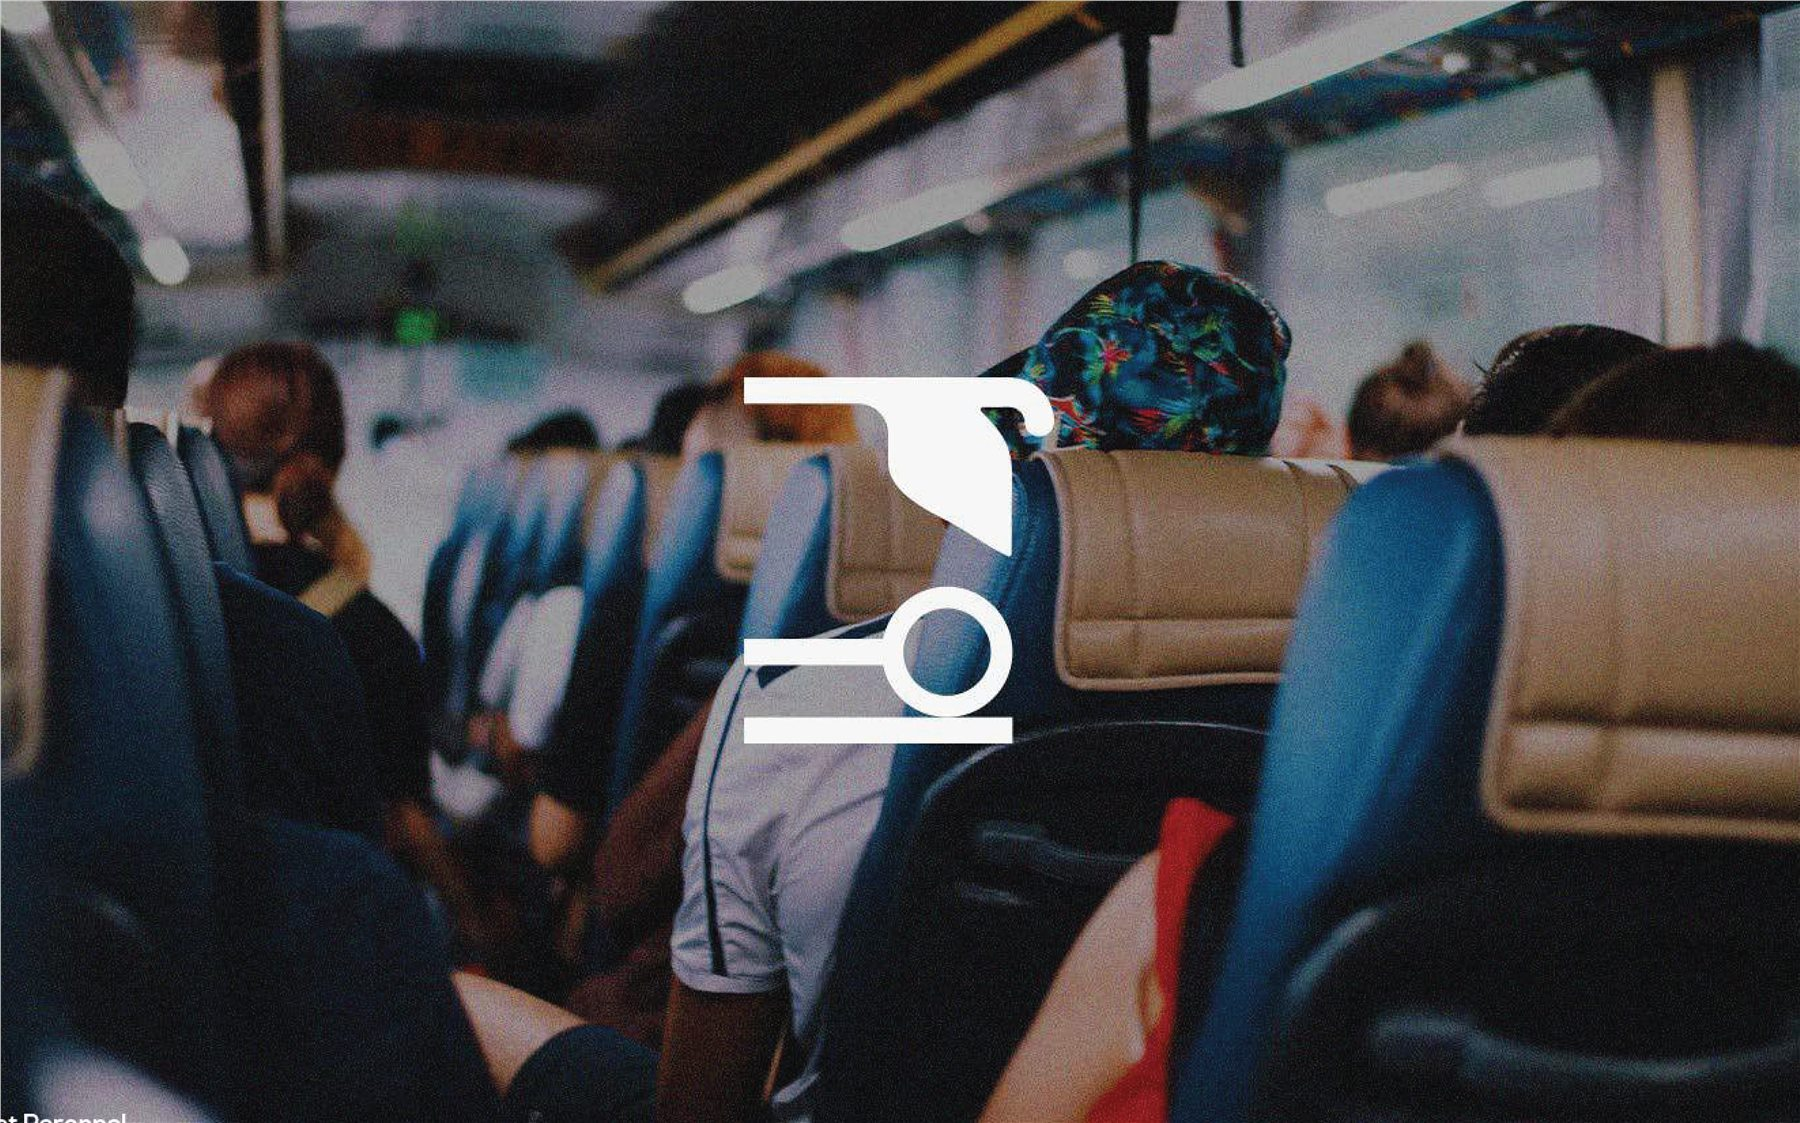
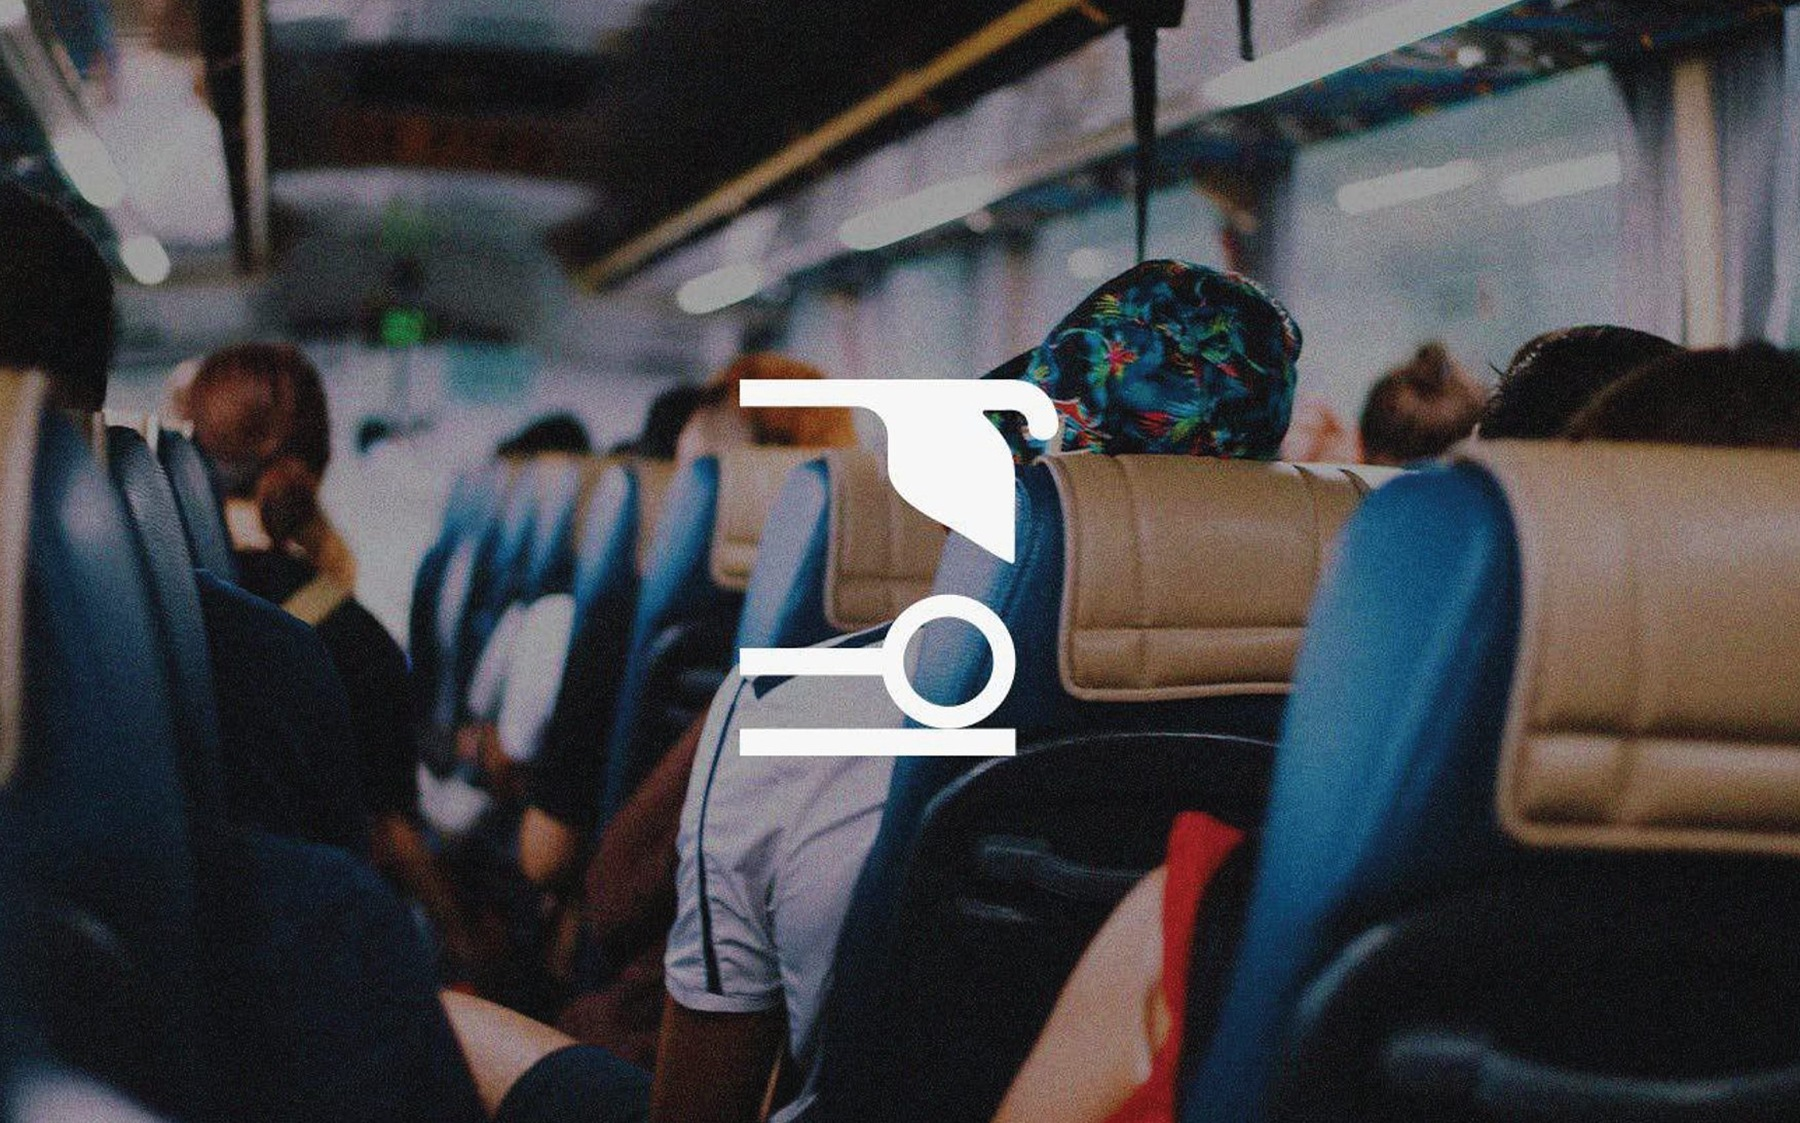
feat: add live site link on Sora, clean Kiran hero image, remove dead social links

diff --git a/data.js b/data.js
@@ -33,6 +33,8 @@ const PROJECTS = [
 		year: "2026",
 		client: "Sora",
 		role: "Webdesign, UI/UX Design & Développement Front-end",
+		liveUrl: "https://sora-pilates.fr/",
+		liveLabel: "sora-pilates.fr ↗",
 		description: [
 			"Sora (sora-pilates.fr) est un studio parisien de Reformer Pilates et de drainage lymphatique pensé comme une expérience globale de transformation du corps. L'architecture du site s'articule autour de deux piliers — Move et Recover — portés par une direction artistique éditoriale bordeaux, taupe et crème.",
 			"Le projet couvre l'ensemble de la chaîne : stratégie UX/UI, création du design system (programmes Sculpt/Burn/Flow/Mat, rituels Recovery, cartes cadeaux, parcours de réservation en ligne) et développement front-end sur-mesure.",

diff --git a/project.js b/project.js
@@ -60,6 +60,13 @@ metaRows.forEach(([label, value]) => {
 	metaEl.appendChild(p);
 });
 
+if (project.liveUrl) {
+	const p = document.createElement("p");
+	const label = project.liveLabel || project.liveUrl.replace(/^https?:\/\/(www\.)?/, "").replace(/\/$/, "") + " ↗";
+	p.innerHTML = `Site live : <a href="${project.liveUrl}" target="_blank" rel="noopener noreferrer">${label}</a>`;
+	metaEl.appendChild(p);
+}
+
 const mediaGrid = document.getElementById("project-media-grid");
 project.images.forEach((image, index) => {
 	const figure = document.createElement("div");

diff --git a/index.html b/index.html
@@ -73,8 +73,6 @@
 
 					<div class="hero-links">
 						<p><a href="mailto:contact@nawfalsabi.me">contact@nawfalsabi.me</a></p>
-						<p><a href="#">Instagram</a></p>
-						<p><a href="#">Linkedin</a></p>
 						<p><a href="https://wa.me/212645552467" target="_blank" rel="noopener noreferrer">Whatsapp</a></p>
 					</div>
 				</div>

diff --git a/style.css b/style.css
@@ -808,7 +808,8 @@ body.project-page {
 	margin: 0 0 6px;
 }
 
-.project-meta span {
+.project-meta span,
+.project-meta a {
 	color: var(--fg);
 	text-decoration: underline;
 }
